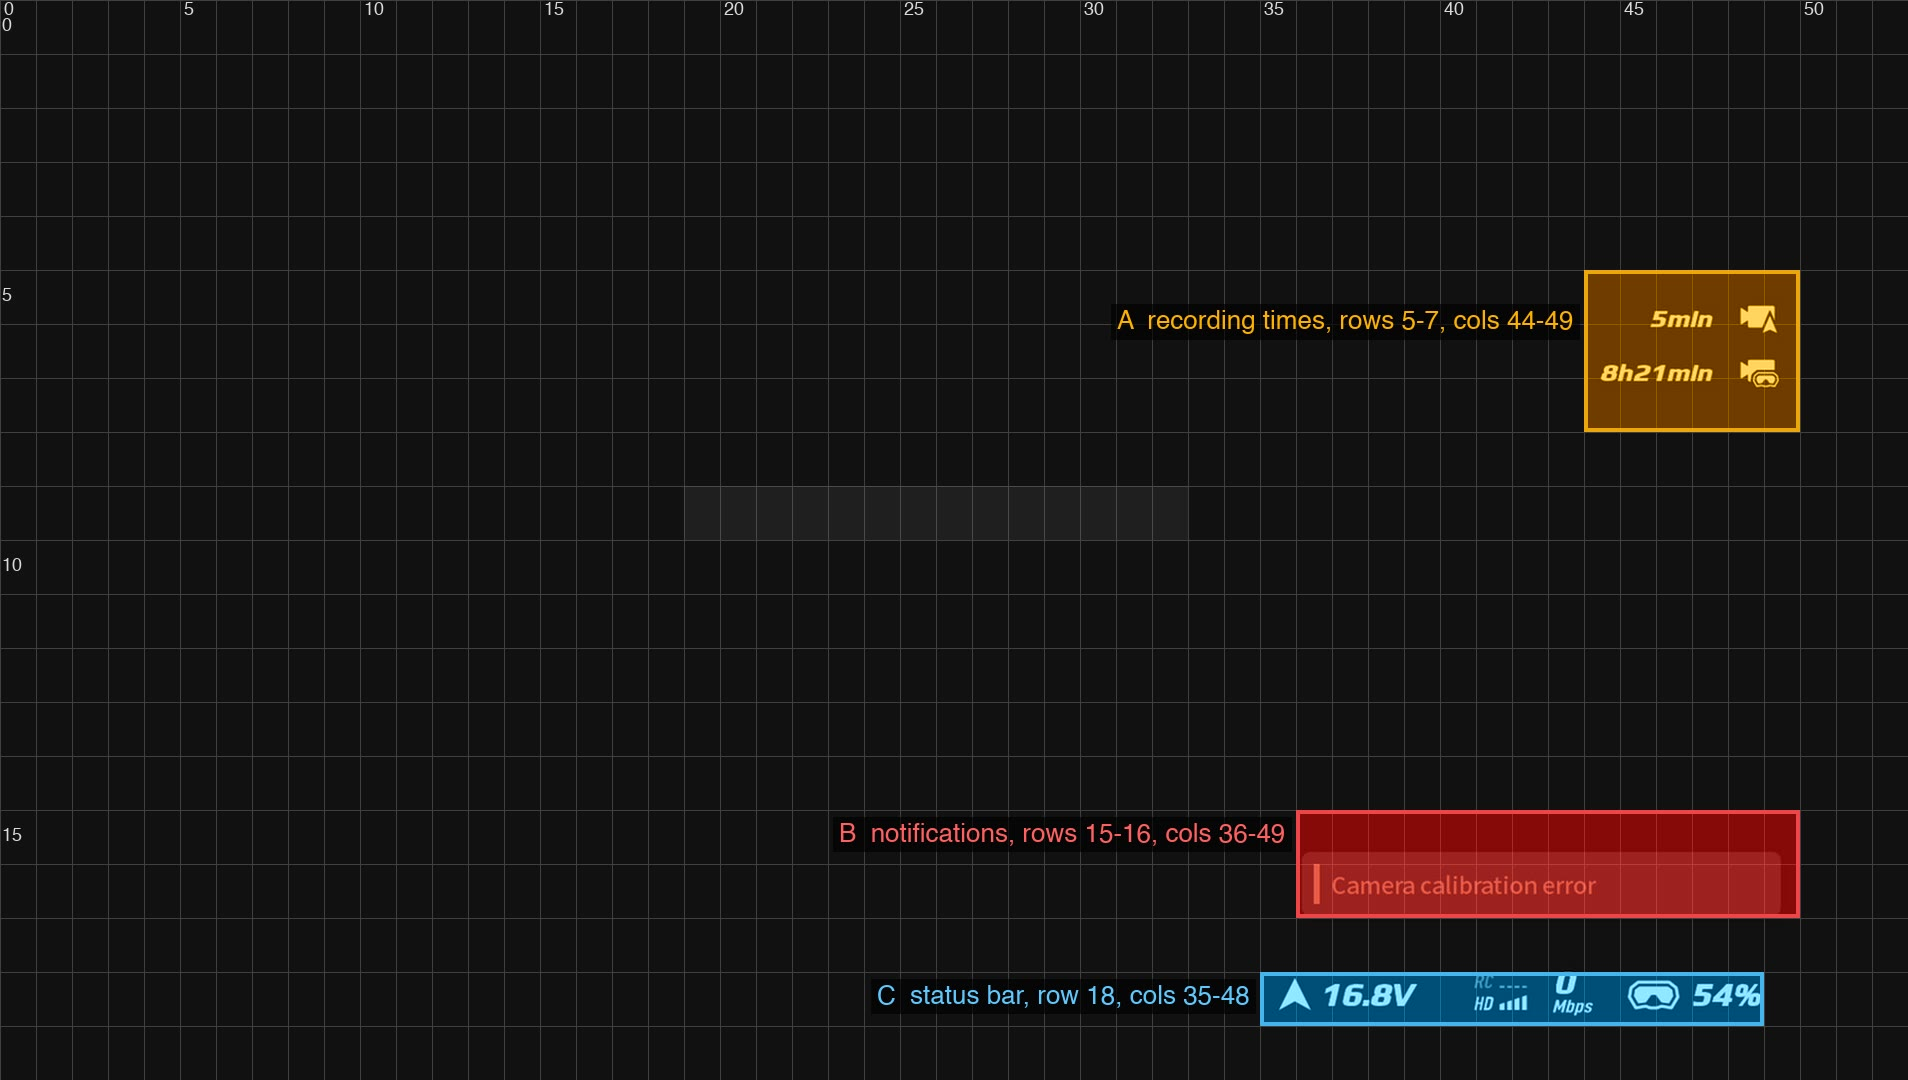
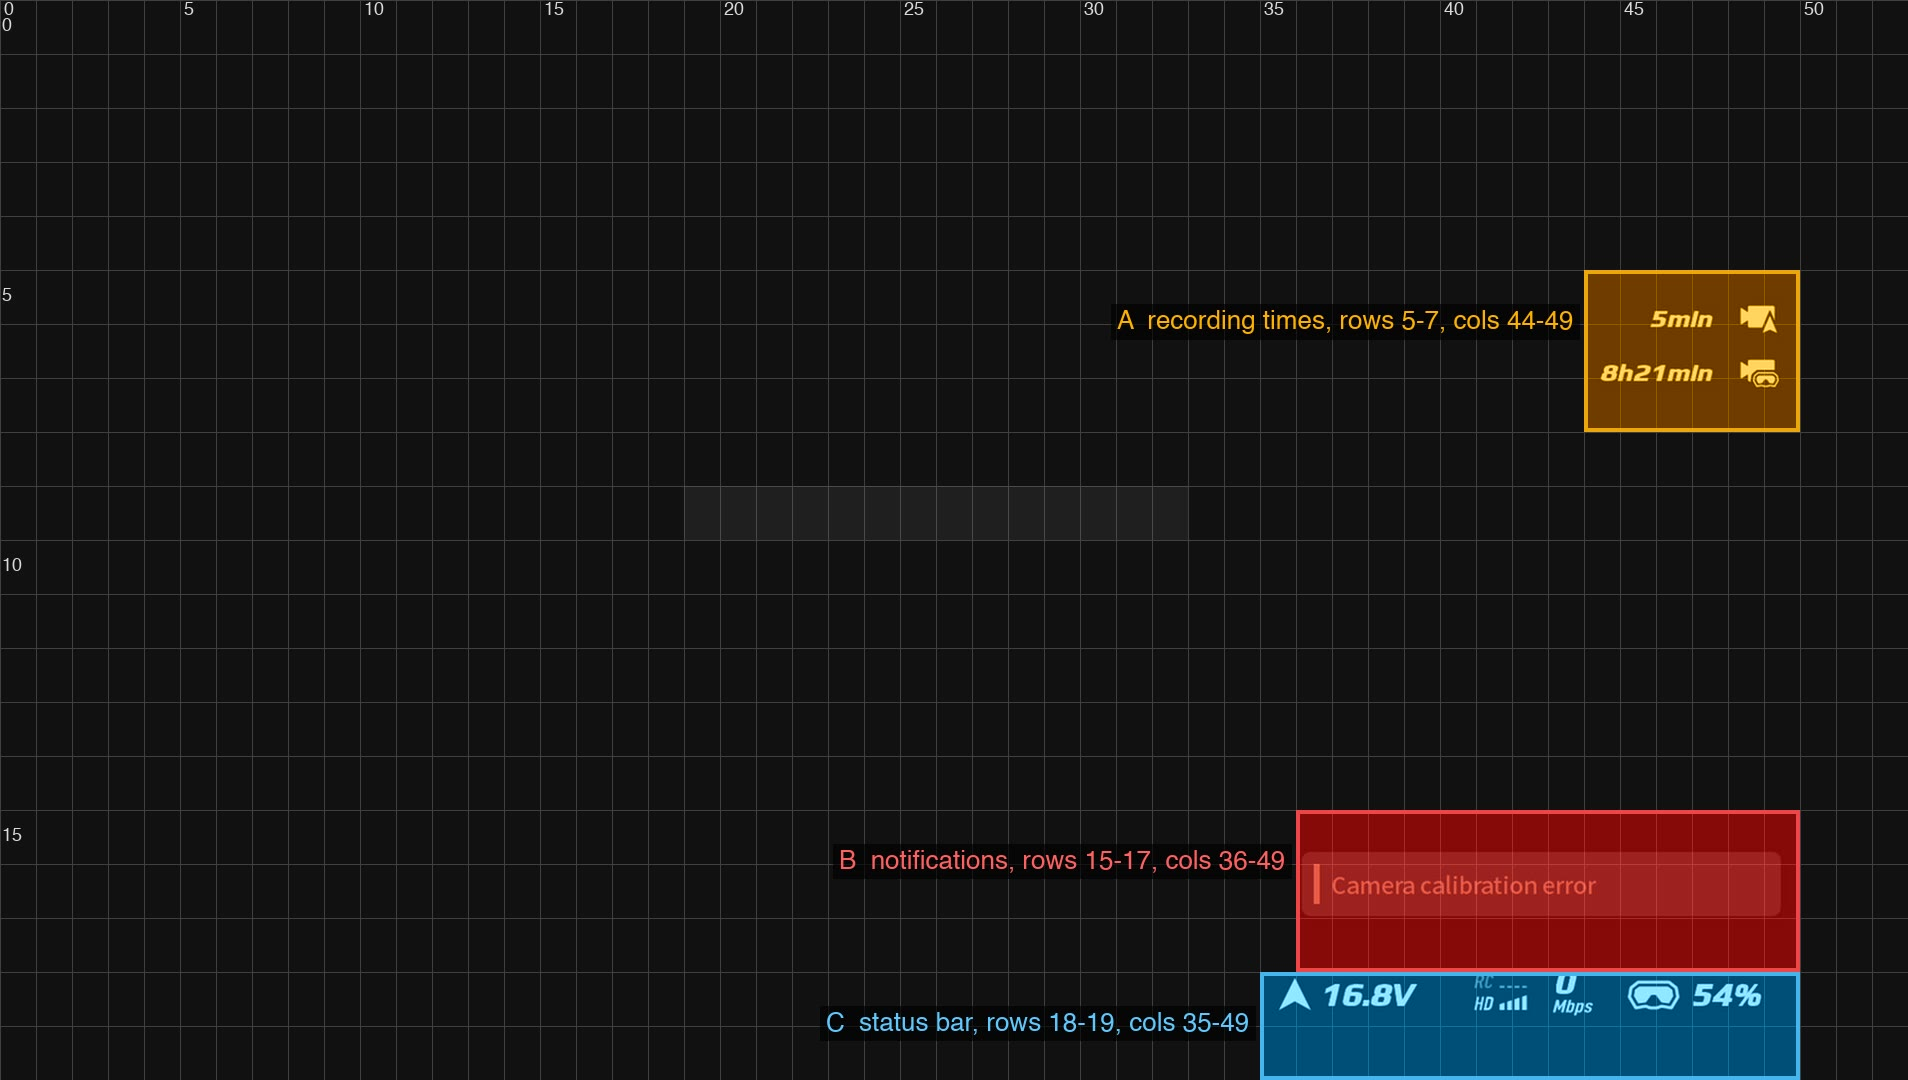
msp-osd-bench: widen the goggles' notification and status bar zones
Re-measured: notifications take rows 15-17, the status bar rows 18-19
and columns 35-49.

Changed region(s): [[0.4329, 0.825, 0.9586, 1.0], [0.4329, 0.7639, 0.6803, 0.825]]

diff --git a/docs/msp-osd-bench/README.md b/docs/msp-osd-bench/README.md
@@ -113,14 +113,15 @@ HD canvas of 53x20 cells (the same in Betaflight and INAV mode), they sit in thr
 | Zone | Cells | What |
 | --- | --- | --- |
 | A | rows 5-7, columns 44-49 | remaining recording time of the air unit and of the goggles |
-| B | rows 15-16, columns 36-49 | notifications, with their own background |
-| C | row 18, columns 35-48 | air unit voltage, link, bitrate, goggles battery |
+| B | rows 15-17, columns 36-49 | notifications, with their own background |
+| C | rows 18-19, columns 35-49 | air unit voltage, link, bitrate, goggles battery |
 
 ![DJI's widgets on the 53x20 grid](images/dji-safe-zone.jpg)
 
 Measured on Goggles 2 (firmware 2025-02) with the default goggles interface, in 12 frames of the Betaflight mode and
 9 of the INAV mode that show only the test marker. Other goggles settings, other firmware and the Normal canvas mode
 were not measured.
+Re-measured on 2026-10-13: the notifications take row 17 too, and the status bar rows 18-19 up to column 49.
 
 The raw captures of this series, about 80 snapshots with their logs, are in the release
 [msp-osd-bench-2026-10-12](https://github.com/350d/metastreamer/releases/tag/msp-osd-bench-2026-10-12).
